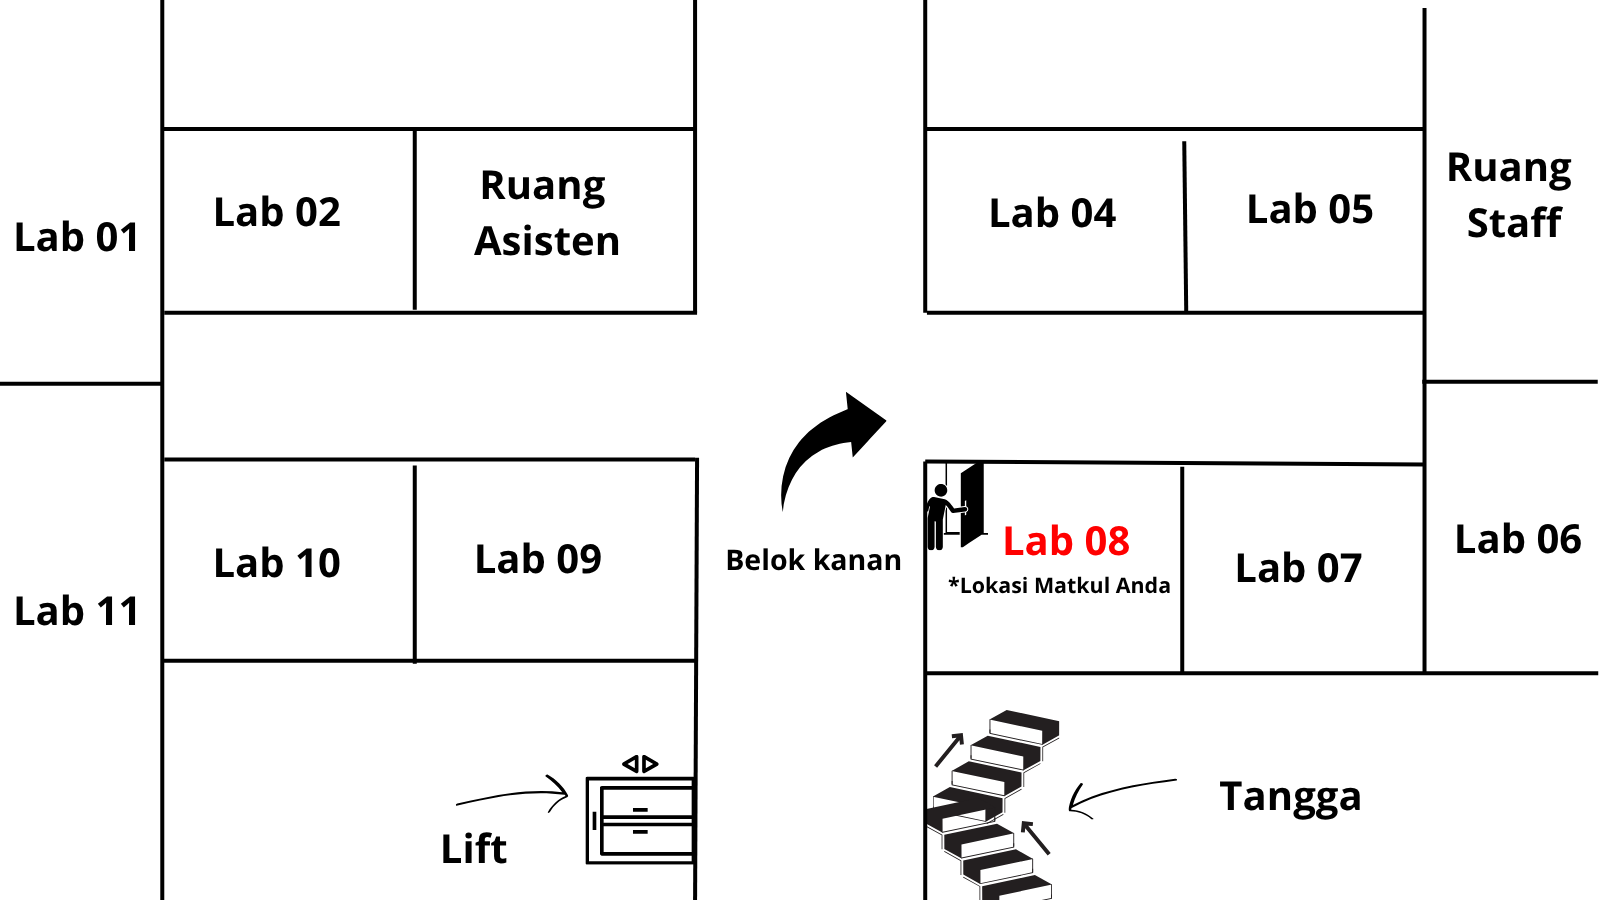
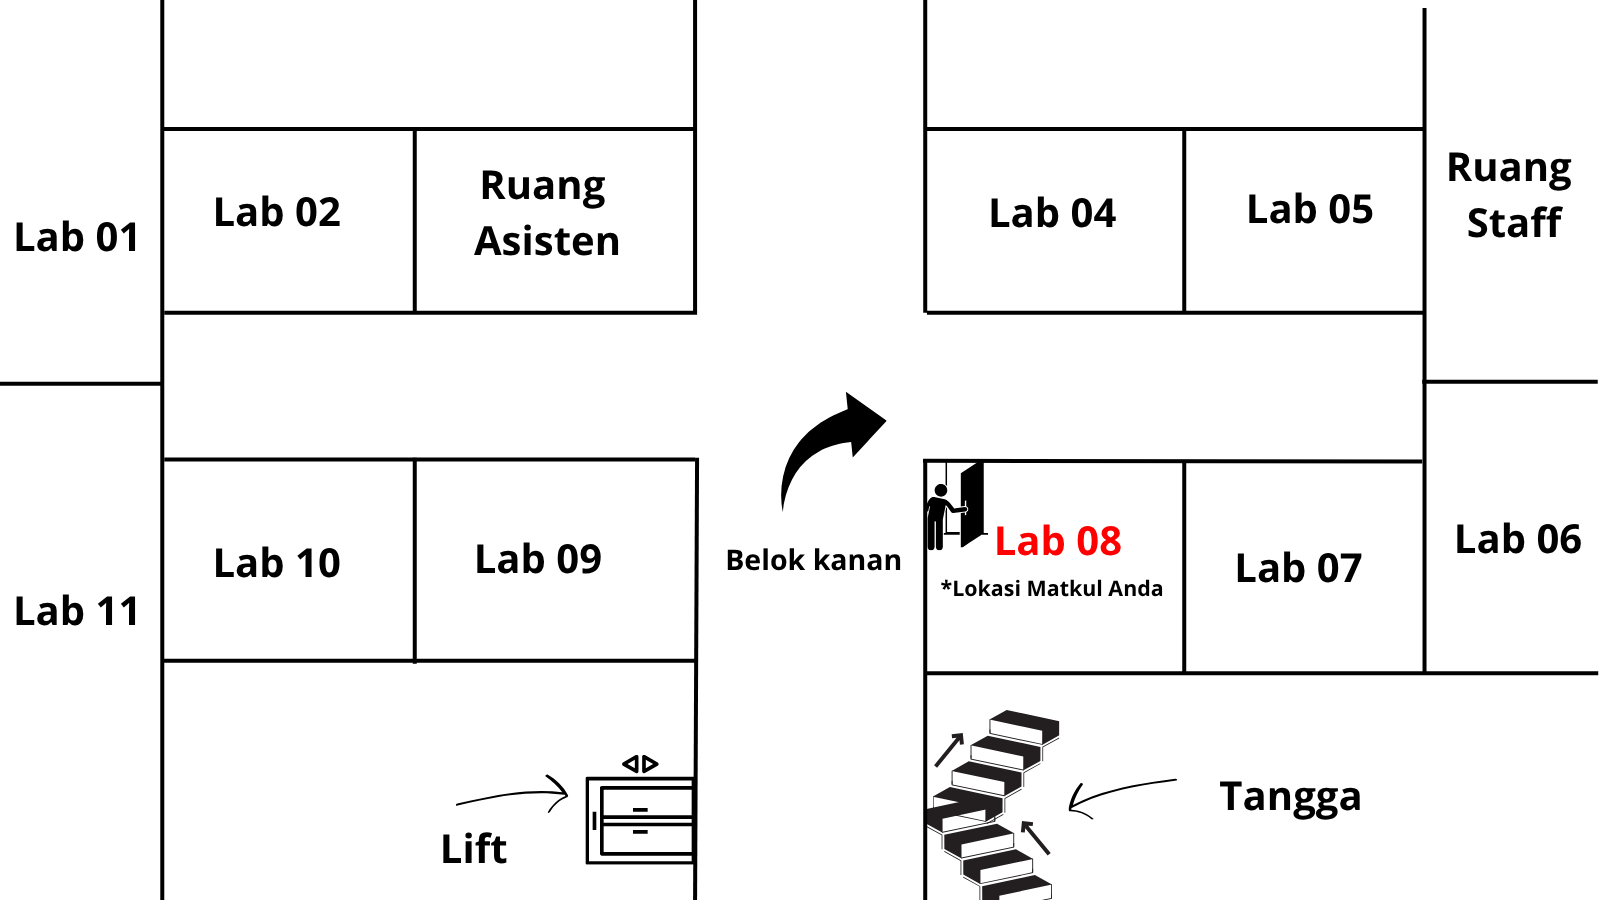
nambahin gambar

Changed region(s): [[0.5938, 0.4978, 0.9062, 0.7467], [0.5938, 0.4978, 0.625, 0.5289]]

diff --git a/resources/views/akunEmail/email.blade.php b/resources/views/akunEmail/email.blade.php
@@ -1,0 +1,37 @@
+<!DOCTYPE html>
+<html>
+<head>
+    <title>Akun Baru</title>
+</head>
+{{-- 🌟 BLOK NOTIFIKASI SUCCESS & ERROR --}}
+@if(session('success'))
+    <div class="p-4 mb-4 text-sm font-bold text-emerald-700 bg-emerald-100 rounded-xl border border-emerald-200">
+        ✅ {{ session('success') }}
+    </div>
+@endif
+
+@if(session('error'))
+    <div class="p-4 mb-4 text-sm font-bold text-red-700 bg-red-100 rounded-xl border border-red-200">
+        ❌ {{ session('error') }}
+    </div>
+@endif
+<body style="font-family: Arial, sans-serif; color: #333; line-height: 1.6;">
+    <div style="max-w-xl; margin: 0 auto; padding: 20px; border: 1px solid #ddd; border-radius: 10px;">
+        <h2 style="color: #2563eb;">Halo, {{ $dataEmail['name'] }}!</h2>
+        <p>Akun Anda telah berhasil dibuat oleh SPV sebagai <strong>{{ strtoupper($dataEmail['role']) }}</strong>.</p>
+        
+        <p>Berikut adalah informasi rahasia untuk login ke dalam sistem kami:</p>
+        <div style="background: #f8fafc; padding: 15px; border-left: 4px solid #2563eb; margin: 15px 0;">
+            <p style="margin: 0;"><strong>Email:</strong> {{ $dataEmail['email'] }}</p>
+            <p style="margin: 0;"><strong>Password:</strong> {{ $dataEmail['password'] }}</p>
+        </div>
+
+        <p>Silakan klik tombol di bawah ini untuk mengakses sistem:</p>
+        <a href="{{ url('/login') }}" style="display: inline-block; padding: 10px 20px; background: #2563eb; color: #fff; text-decoration: none; border-radius: 5px; font-weight: bold;">Login Sekarang</a>
+
+        <p style="margin-top: 20px; font-size: 12px; color: #666;">
+            *Harap segera ubah password Anda di menu Edit Profil setelah berhasil login demi keamanan akun Anda.
+        </p>
+    </div>
+</body>
+</html>

diff --git a/app/Mail/AkunBaruMail.php b/app/Mail/AkunBaruMail.php
@@ -1,0 +1,26 @@
+<?php
+
+namespace App\Mail;
+
+use Illuminate\Bus\Queueable;
+use Illuminate\Mail\Mailable;
+use Illuminate\Queue\SerializesModels;
+
+class AkunBaruMail extends Mailable
+{
+    use Queueable, SerializesModels;
+
+    public $dataEmail;
+
+    // Menangkap data yang dilempar dari Controller
+    public function __construct($dataEmail)
+    {
+        $this->dataEmail = $dataEmail;
+    }
+
+    public function build()
+    {
+        return $this->subject('Detail Login Akun Sistem Lab Anda')
+                    ->view('akunEmail.email');
+    }
+}

diff --git a/app/Http/Controllers/AkunController.php b/app/Http/Controllers/AkunController.php
@@ -5,6 +5,8 @@ namespace App\Http\Controllers;
 use App\Models\User;
 use Illuminate\Http\Request;
 use Illuminate\Support\Facades\Hash;
+use Illuminate\Support\Facades\Mail;
+use App\Mail\AkunBaruMail;
 
 class AkunController extends Controller
 {
@@ -22,16 +24,32 @@ class AkunController extends Controller
             'role'     => 'required|in:asisten,ormawa,dosen', 
         ]);
 
-    
+        $passwordAsli = $request->password;
         User::create([
             'name'     => $request->name,
             'email'    => $request->email,
             'password' => Hash::make($request->password), 
             'role'     => $request->role,
         ]);
+        $dataEmail = [
+            'name'     => $request->name,
+            'email'    => $request->email,
+            'password' => $passwordAsli, // Password belum dienkripsi
+            'role'     => $request->role,
+        ];
+        try {
+            Mail::to($request->email)->send(new AkunBaruMail($dataEmail));
+        } catch (\Exception $e) {
+            // Kalau misal gagal ngirim email (karena internet putus/salah setting gmail),
+            // Akun tetap terbuat tapi keluar notif error emailnya
+            return back()->with('error', 'Akun berhasil dibuat, TAPI email gagal dikirim. Pastikan settingan Gmail benar! Error: ' . $e->getMessage());
+        }
 
-        return back()->with('success', 'Akun ' . strtoupper($request->role) . ' atas nama ' . $request->name . ' berhasil dibuat!');
+        // Kalau sukses semua
+        return back()->with('success', 'Akun ' . strtoupper($request->role) . ' atas nama ' . $request->name . ' berhasil dibuat & Email berisi password telah dikirim!');
     }
+
+       
 
     
 public function buat()